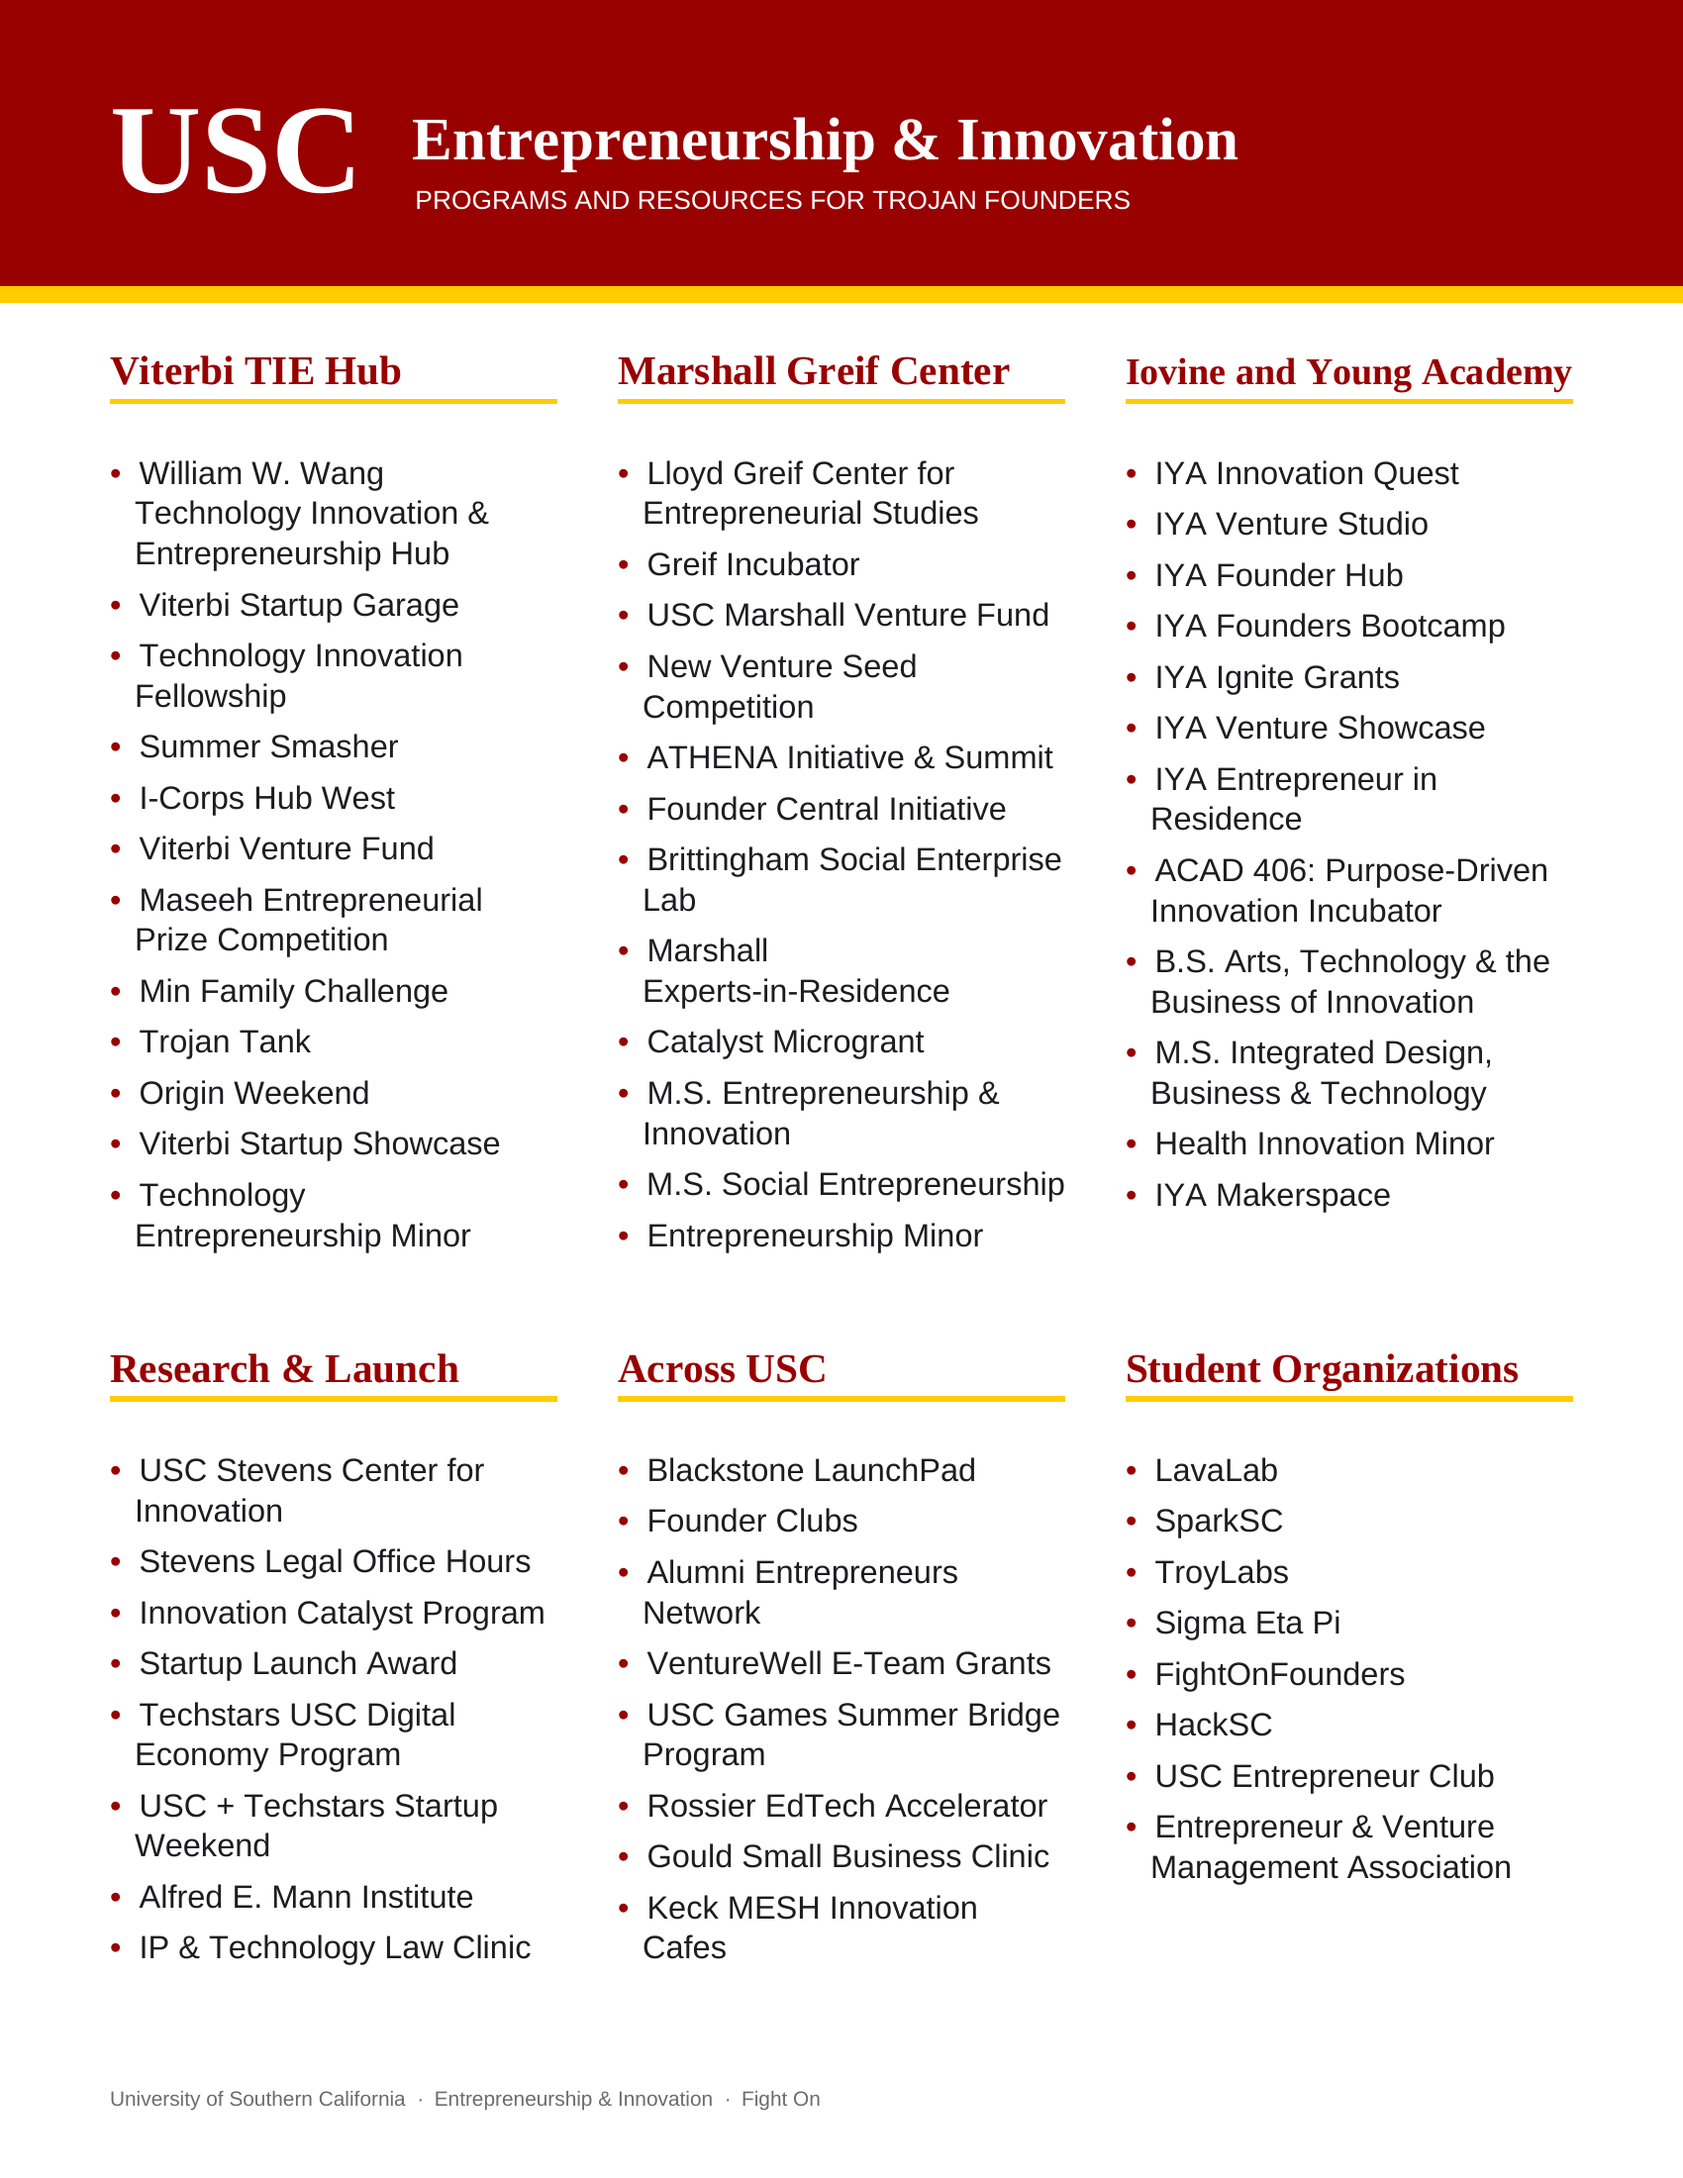
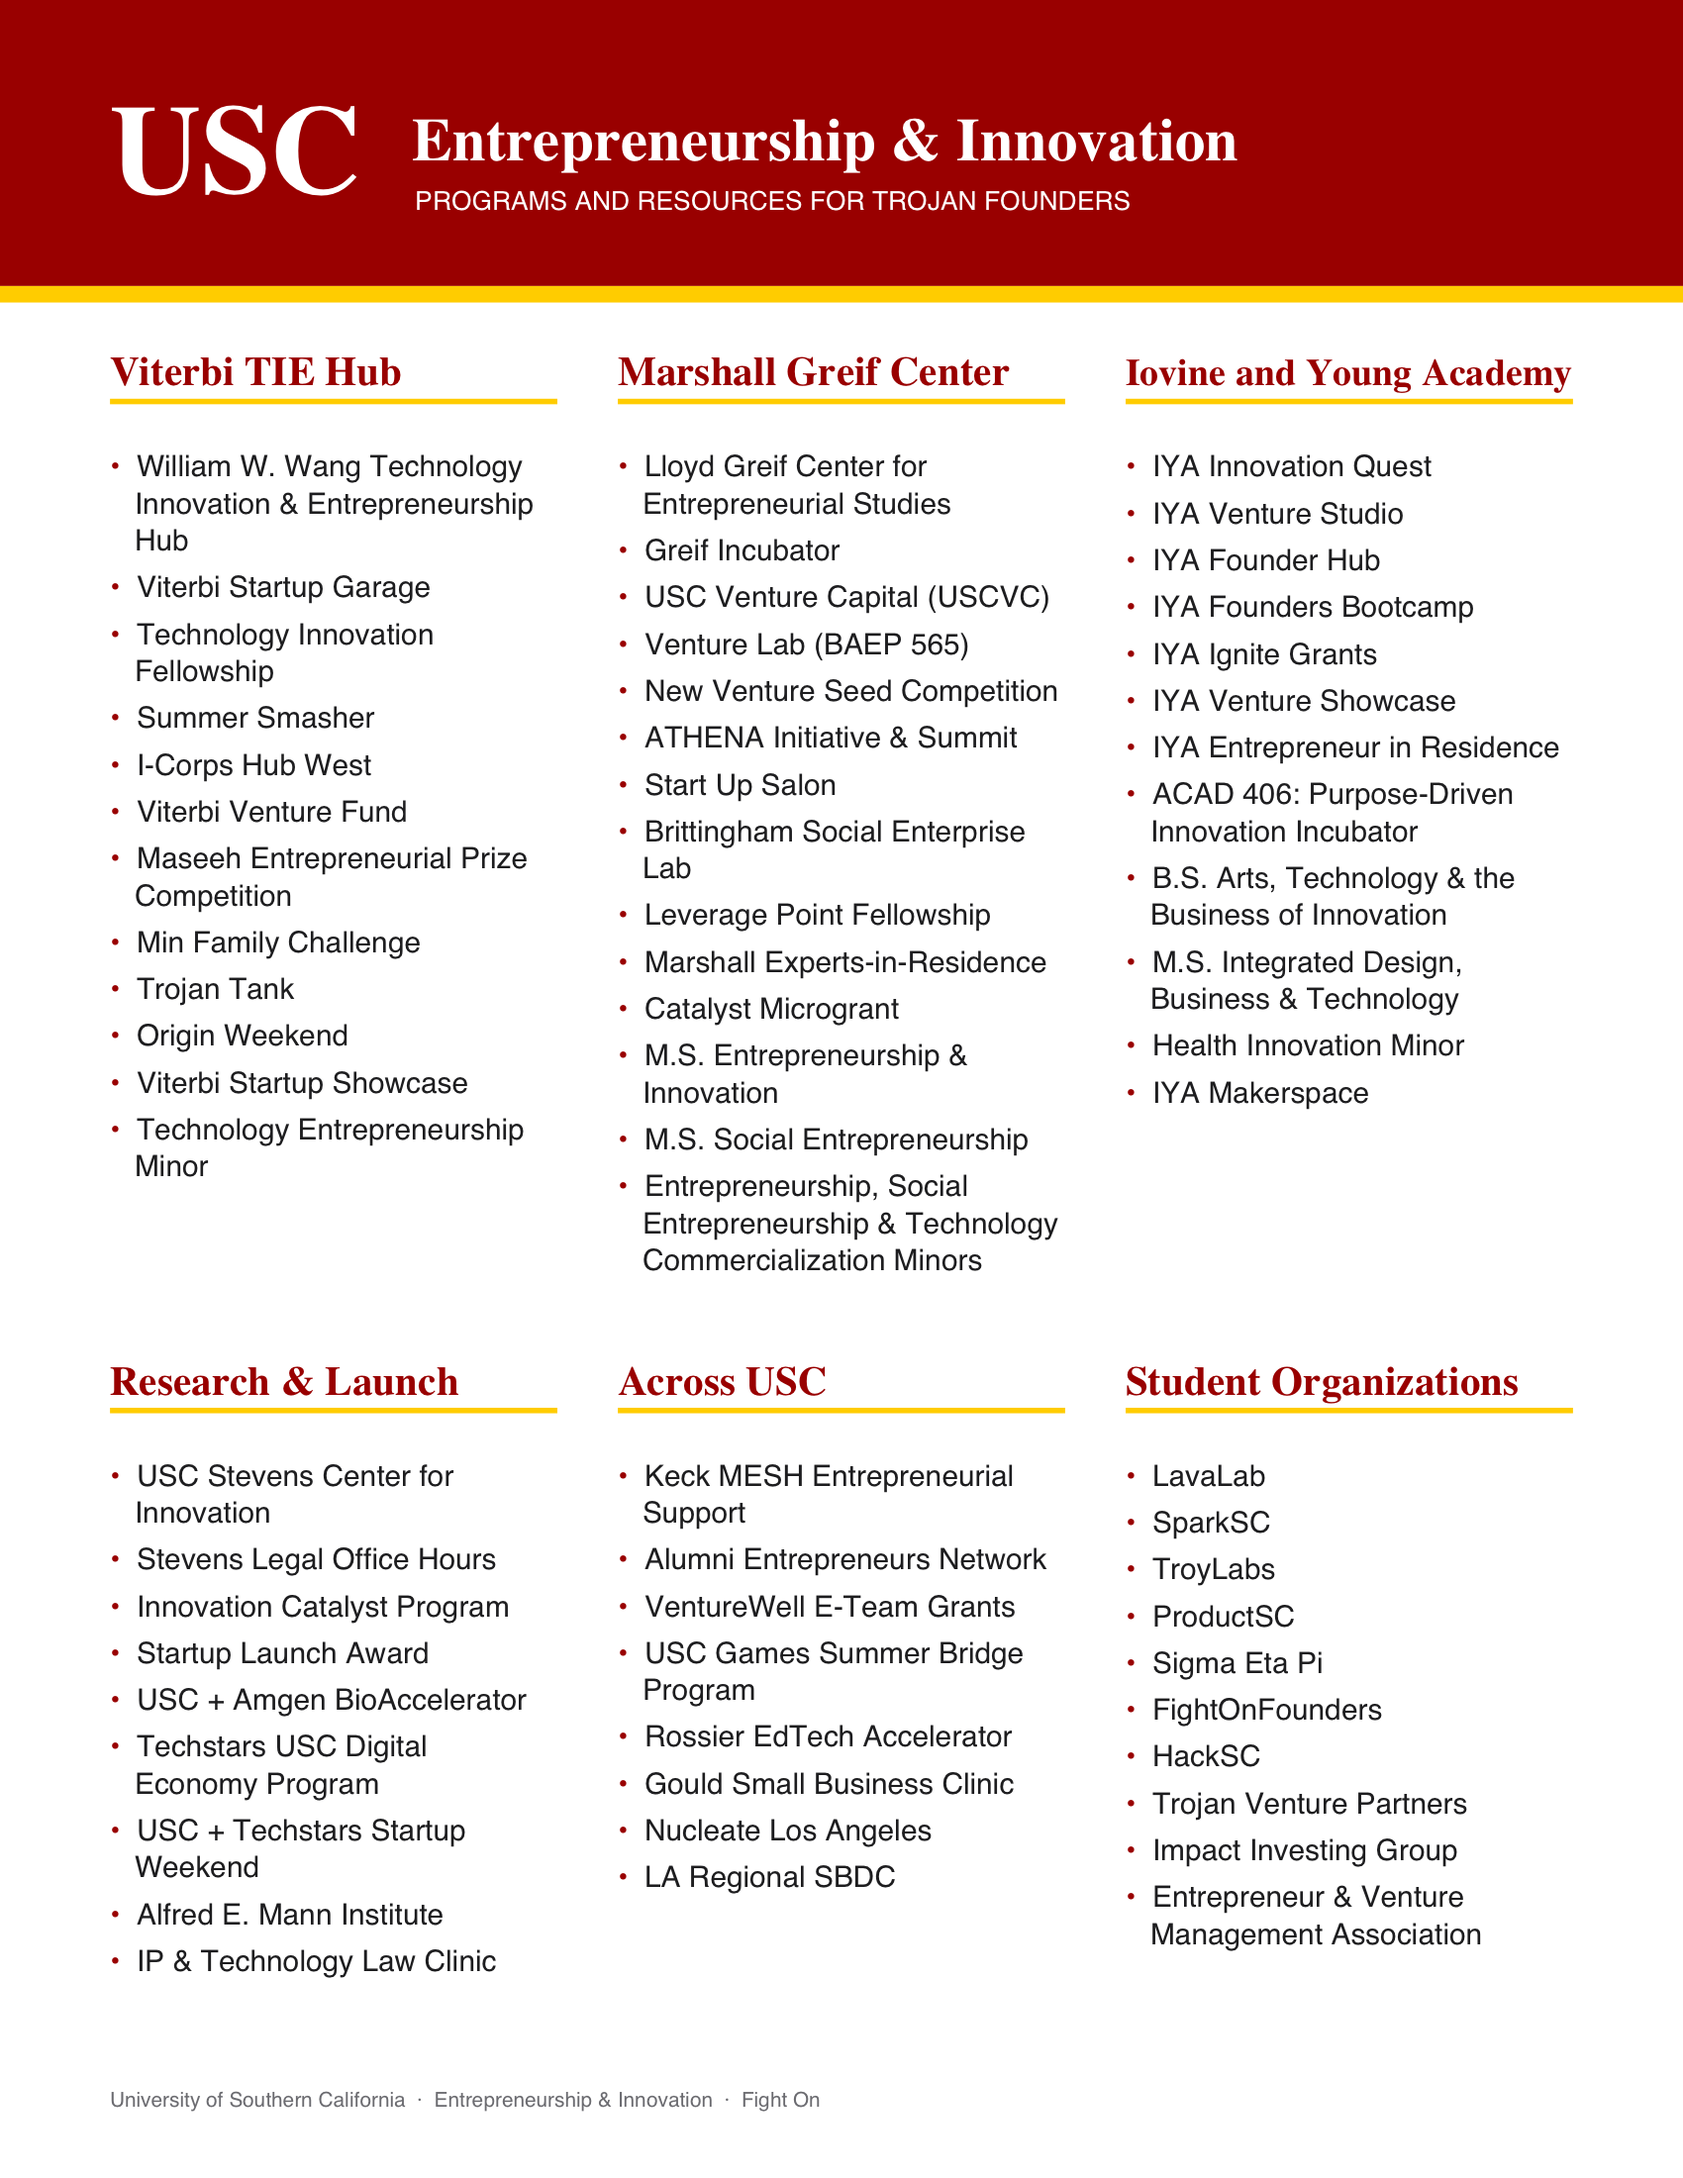
Refresh the one-page PDF with current programs
- Added: USC Venture Capital, Venture Lab (BAEP 565), Start Up Salon, Leverage Point
  Fellowship, USC + Amgen BioAccelerator, Social Entrepreneurship and Technology
  Commercialization minors, Keck MESH, Nucleate LA, LA Regional SBDC, ProductSC,
  Trojan Venture Partners, Impact Investing Group
- Removed archived items: USC Marshall Venture Fund, Founder Central, Blackstone
  LaunchPad, Founder Clubs, MESH Innovation Cafes, USC Entrepreneur Club
- Regenerated all three styles; the site serves A Classic (PDF and PNG)

diff --git a/docs/programs-directory/one_pager_styles.py b/docs/programs-directory/one_pager_styles.py
@@ -16,10 +16,11 @@ SECTIONS = [
         "Maseeh Entrepreneurial Prize Competition", "Min Family Challenge", "Trojan Tank", "Origin Weekend",
         "Viterbi Startup Showcase", "Technology Entrepreneurship Minor"]),
     ("Marshall Greif Center", [
-        "Lloyd Greif Center for Entrepreneurial Studies", "Greif Incubator", "USC Marshall Venture Fund",
-        "New Venture Seed Competition", "ATHENA Initiative & Summit", "Founder Central Initiative",
-        "Brittingham Social Enterprise Lab", "Marshall Experts-in-Residence", "Catalyst Microgrant",
-        "M.S. Entrepreneurship & Innovation", "M.S. Social Entrepreneurship", "Entrepreneurship Minor"]),
+        "Lloyd Greif Center for Entrepreneurial Studies", "Greif Incubator", "USC Venture Capital (USCVC)",
+        "Venture Lab (BAEP 565)", "New Venture Seed Competition", "ATHENA Initiative & Summit", "Start Up Salon",
+        "Brittingham Social Enterprise Lab", "Leverage Point Fellowship", "Marshall Experts-in-Residence",
+        "Catalyst Microgrant", "M.S. Entrepreneurship & Innovation", "M.S. Social Entrepreneurship",
+        "Entrepreneurship, Social Entrepreneurship & Technology Commercialization Minors"]),
     ("Iovine and Young Academy", [
         "IYA Innovation Quest", "IYA Venture Studio", "IYA Founder Hub", "IYA Founders Bootcamp",
         "IYA Ignite Grants", "IYA Venture Showcase", "IYA Entrepreneur in Residence",
@@ -27,15 +28,15 @@ SECTIONS = [
         "M.S. Integrated Design, Business & Technology", "Health Innovation Minor", "IYA Makerspace"]),
     ("Research & Launch", [
         "USC Stevens Center for Innovation", "Stevens Legal Office Hours", "Innovation Catalyst Program",
-        "Startup Launch Award", "Techstars USC Digital Economy Program", "USC + Techstars Startup Weekend",
-        "Alfred E. Mann Institute", "IP & Technology Law Clinic"]),
+        "Startup Launch Award", "USC + Amgen BioAccelerator", "Techstars USC Digital Economy Program",
+        "USC + Techstars Startup Weekend", "Alfred E. Mann Institute", "IP & Technology Law Clinic"]),
     ("Across USC", [
-        "Blackstone LaunchPad", "Founder Clubs", "Alumni Entrepreneurs Network", "VentureWell E-Team Grants",
+        "Keck MESH Entrepreneurial Support", "Alumni Entrepreneurs Network", "VentureWell E-Team Grants",
         "USC Games Summer Bridge Program", "Rossier EdTech Accelerator", "Gould Small Business Clinic",
-        "Keck MESH Innovation Cafes"]),
+        "Nucleate Los Angeles", "LA Regional SBDC"]),
     ("Student Organizations", [
-        "LavaLab", "SparkSC", "TroyLabs", "Sigma Eta Pi", "FightOnFounders", "HackSC", "USC Entrepreneur Club",
-        "Entrepreneur & Venture Management Association"]),
+        "LavaLab", "SparkSC", "TroyLabs", "ProductSC", "Sigma Eta Pi", "FightOnFounders", "HackSC",
+        "Trojan Venture Partners", "Impact Investing Group", "Entrepreneur & Venture Management Association"]),
 ]
 # Grid: row 1 holds the three flagship units, row 2 the rest, so columns line up.
 ROWS = [SECTIONS[:3], SECTIONS[3:]]
